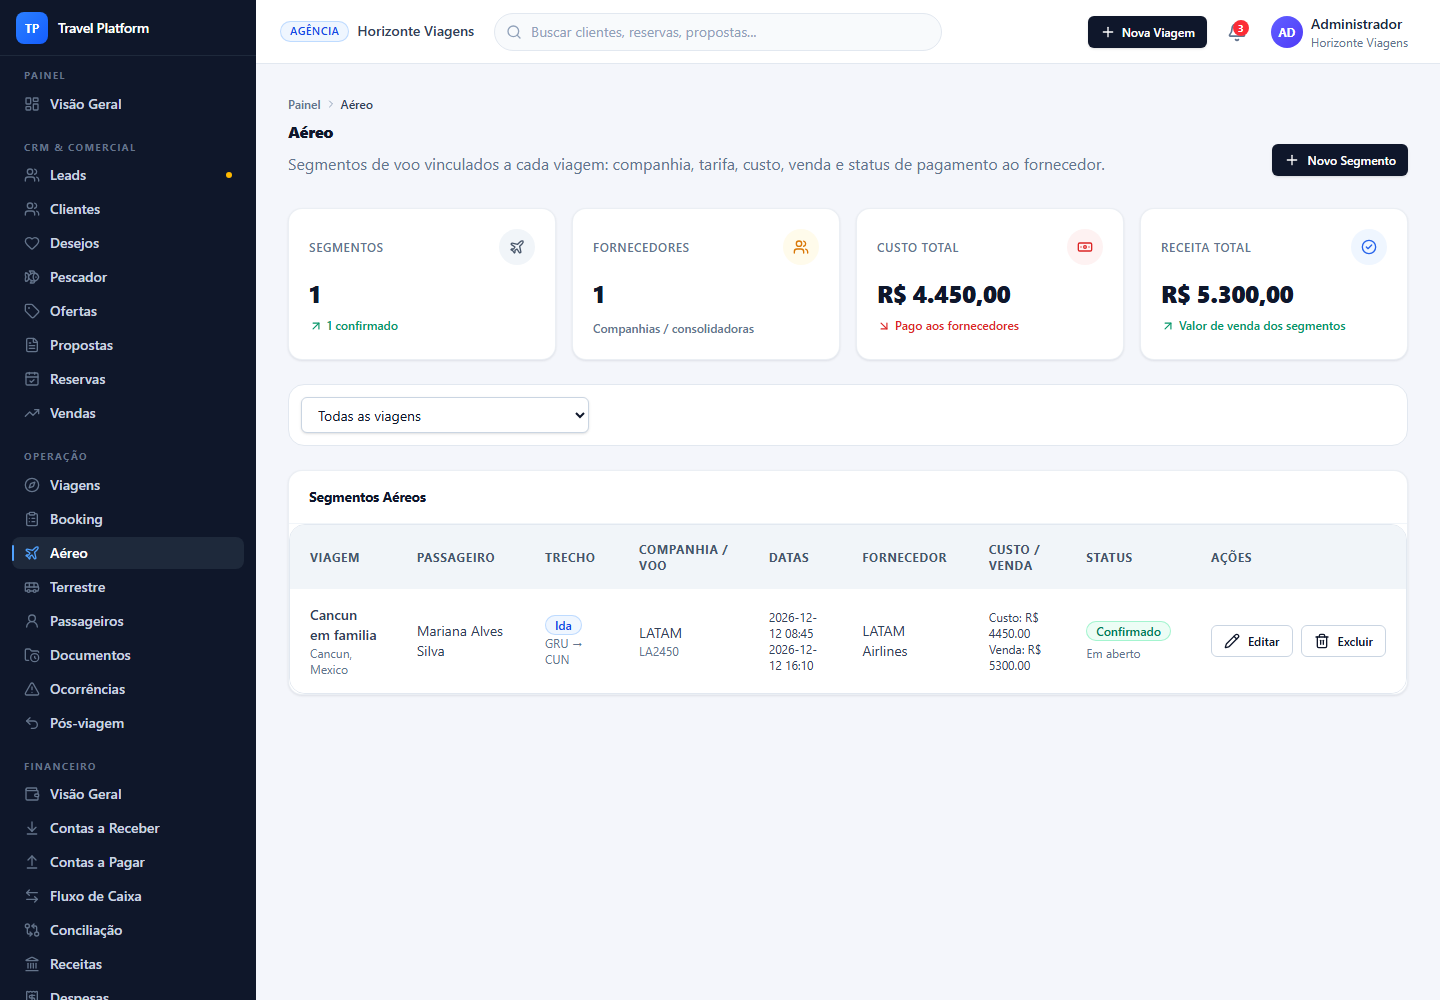
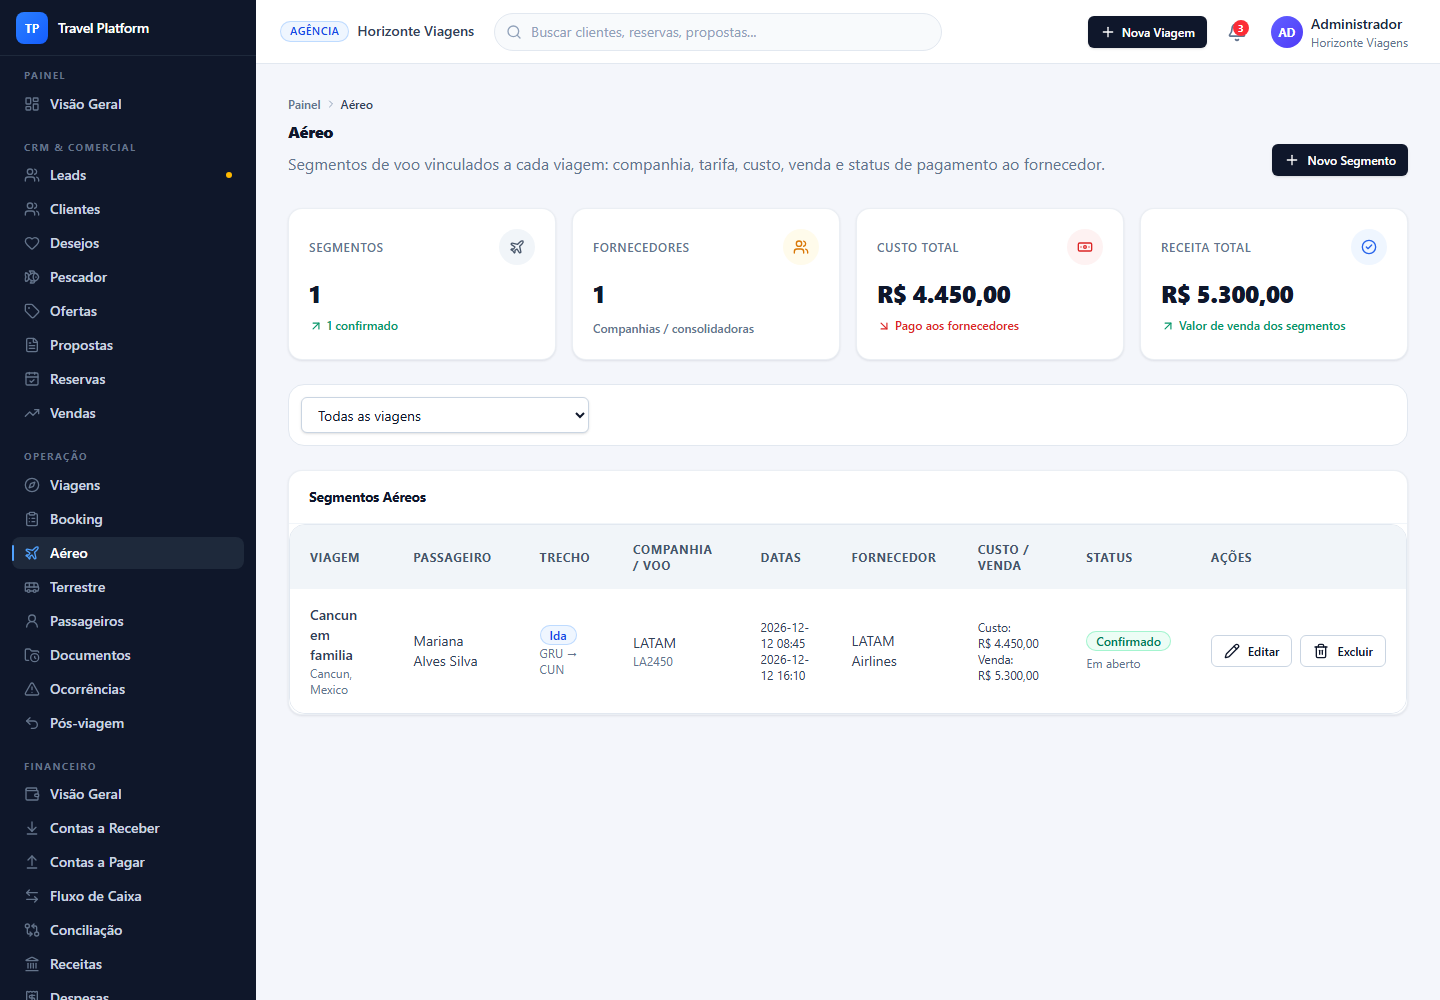
fix(ui): correct hardcoded customer name and currency formatting gaps
Closes concrete divergences found while comparing live screens against
the visual reference pack: Customer 360 (customer app) rendered a
hardcoded "Titular" placeholder instead of the customer's actual name
in the Dados pessoais panel, and the Aereo/Terrestre operations tables
plus commission plan values used raw toFixed(2) instead of the shared
BRL formatter, producing "R$ 4450.00" instead of "R$ 4.450,00".

- apps/customer/src/components/commercial/Customer360.tsx: use
  customer.name instead of literal "Titular"
- apps/agency/src/pages/AirServicesPage.tsx,
  apps/agency/src/pages/LandServicesPage.tsx,
  apps/agency/src/pages/CommissionPlansPage.tsx: use formatBRL for
  cost/sale/fixed-amount display
- apps/customer/src/pages/CustomerDetailsPage.test.tsx: update
  assertions to tolerate the (now correct) duplicate name rendering
  between the page's own field list and the embedded Customer 360 panel
- docs/visual-reconstruction-delivery/visual_*.py: point QA scripts at
  localhost instead of 127.0.0.1 (Vite dev servers here bind IPv6-only
  ::1, so 127.0.0.1 was unreachable) and refresh regenerated screenshots

diff --git a/apps/customer/src/pages/CustomerDetailsPage.test.tsx b/apps/customer/src/pages/CustomerDetailsPage.test.tsx
@@ -92,11 +92,11 @@ describe('CustomerDetailsPage', () => {
     vi.mocked(getCustomer).mockResolvedValue(fullCustomer);
     renderRouted(['/customers/c1']);
 
-    expect(await screen.findByText('Maria Silva')).toBeInTheDocument();
+    expect((await screen.findAllByText('Maria Silva')).length).toBeGreaterThan(0);
     expect(screen.getByText('maria@example.com')).toBeInTheDocument();
     expect(screen.getByText('+55 11 90000-0000')).toBeInTheDocument();
-    expect(screen.getByText('123.456.789-00')).toBeInTheDocument();
-    expect(screen.getByText('AB123456')).toBeInTheDocument();
+    expect(screen.getAllByText('123.456.789-00').length).toBeGreaterThan(0);
+    expect(screen.getAllByText('AB123456').length).toBeGreaterThan(0);
     expect(screen.getByText('VIP client')).toBeInTheDocument();
   });
 
@@ -111,7 +111,7 @@ describe('CustomerDetailsPage', () => {
     });
     const { container } = renderRouted(['/customers/c2']);
 
-    await screen.findByText('João Souza');
+    await screen.findAllByText('João Souza');
     // Scope to the customer details <dl> only — not Customer 360 summary
     const dl = container.querySelector('dl');
     expect(dl).toBeInTheDocument();

diff --git a/apps/agency/src/pages/CommissionPlansPage.tsx b/apps/agency/src/pages/CommissionPlansPage.tsx
@@ -8,6 +8,7 @@ import { Table, TableBody, TableCell, TableHead, TableHeader, TableRow } from '.
 import { LoadingState } from '../components/ui/loading-state';
 import { EmptyState } from '../components/ui/empty-state';
 import { ErrorState } from '../components/ui/error-state';
+import { formatBRL } from '../lib/formatCurrency';
 import {
   ApiError,
   createCommissionPlan,
@@ -232,7 +233,7 @@ export function CommissionPlansPage() {
                     <TableCell>{TYPE_LABELS[plan.calculationType]}</TableCell>
                     <TableCell>
                       {plan.percentage !== undefined ? `${plan.percentage}%` : null}
-                      {plan.fixedAmount !== undefined ? `R$ ${plan.fixedAmount.toFixed(2)}` : null}
+                      {plan.fixedAmount !== undefined ? formatBRL(plan.fixedAmount) : null}
                       {plan.percentage === undefined && plan.fixedAmount === undefined ? '-' : null}
                     </TableCell>
                     <TableCell>{plan.active ? 'Ativo' : 'Inativo'}</TableCell>

diff --git a/apps/agency/src/pages/LandServicesPage.tsx b/apps/agency/src/pages/LandServicesPage.tsx
@@ -421,8 +421,8 @@ export function LandServicesPage() {
                       </TableCell>
                       <TableCell>{supplier?.name ?? '-'}</TableCell>
                       <TableCell className="text-xs">
-                        <div>Custo: R$ {landService.cost.toFixed(2)}</div>
-                        <div>Venda: R$ {landService.saleValue.toFixed(2)}</div>
+                        <div>Custo: {formatBRL(landService.cost)}</div>
+                        <div>Venda: {formatBRL(landService.saleValue)}</div>
                       </TableCell>
                       <TableCell>
                         <StatusBadge tone={STATUS_TONES[landService.status]}>

diff --git a/apps/agency/src/pages/AirServicesPage.tsx b/apps/agency/src/pages/AirServicesPage.tsx
@@ -436,8 +436,8 @@ export function AirServicesPage() {
                       </TableCell>
                       <TableCell>{supplier?.name ?? '-'}</TableCell>
                       <TableCell className="text-xs">
-                        <div>Custo: R$ {airService.cost.toFixed(2)}</div>
-                        <div>Venda: R$ {airService.saleValue.toFixed(2)}</div>
+                        <div>Custo: {formatBRL(airService.cost)}</div>
+                        <div>Venda: {formatBRL(airService.saleValue)}</div>
                       </TableCell>
                       <TableCell>
                         <StatusBadge tone={STATUS_TONES[airService.status]}>

diff --git a/apps/customer/src/components/commercial/Customer360.tsx b/apps/customer/src/components/commercial/Customer360.tsx
@@ -241,7 +241,7 @@ export function Customer360({ customer, onBack, onEdit }: Customer360Props) {
 
       <Panel title="Dados pessoais" action="Editar">
         <dl>
-          <InfoRow label="Nome completo" value="Titular" />
+          <InfoRow label="Nome completo" value={customer.name} />
           <InfoRow label="E-mail" value={customer.email} />
           <InfoRow label="Telefone" value={customer.phone} />
           <InfoRow label="CPF" value={customer.cpf} />

diff --git a/docs/visual-reconstruction-delivery/visual_final_qa.py b/docs/visual-reconstruction-delivery/visual_final_qa.py
@@ -2,8 +2,8 @@ from pathlib import Path
 import json
 from playwright.sync_api import sync_playwright
 
-AGENCY_URL = "http://127.0.0.1:5195"
-PLATFORM_URL = "http://127.0.0.1:5197"
+AGENCY_URL = "http://localhost:5195"
+PLATFORM_URL = "http://localhost:5197"
 OUT = Path("docs/visual-reconstruction-delivery/screenshots/final")
 OUT.mkdir(parents=True, exist_ok=True)
 

diff --git a/docs/visual-reconstruction-delivery/visual_responsive_qa.py b/docs/visual-reconstruction-delivery/visual_responsive_qa.py
@@ -3,7 +3,7 @@ import json
 from playwright.sync_api import sync_playwright
 from visual_final_qa import AGENCY_URL, PLATFORM_URL, agency_route, platform_route
 
-CUSTOMER_URL = "http://127.0.0.1:5196"
+CUSTOMER_URL = "http://localhost:5196"
 OUT = Path("docs/visual-reconstruction-delivery/screenshots/responsive")
 OUT.mkdir(parents=True, exist_ok=True)
 

diff --git a/docs/visual-reconstruction-delivery/visual_customer_qa.py b/docs/visual-reconstruction-delivery/visual_customer_qa.py
@@ -1,7 +1,7 @@
 from pathlib import Path
 from playwright.sync_api import sync_playwright
 
-BASE_URL = "http://127.0.0.1:5196"
+BASE_URL = "http://localhost:5196"
 OUT = Path("docs/visual-reconstruction-delivery/screenshots")
 OUT.mkdir(parents=True, exist_ok=True)
 
